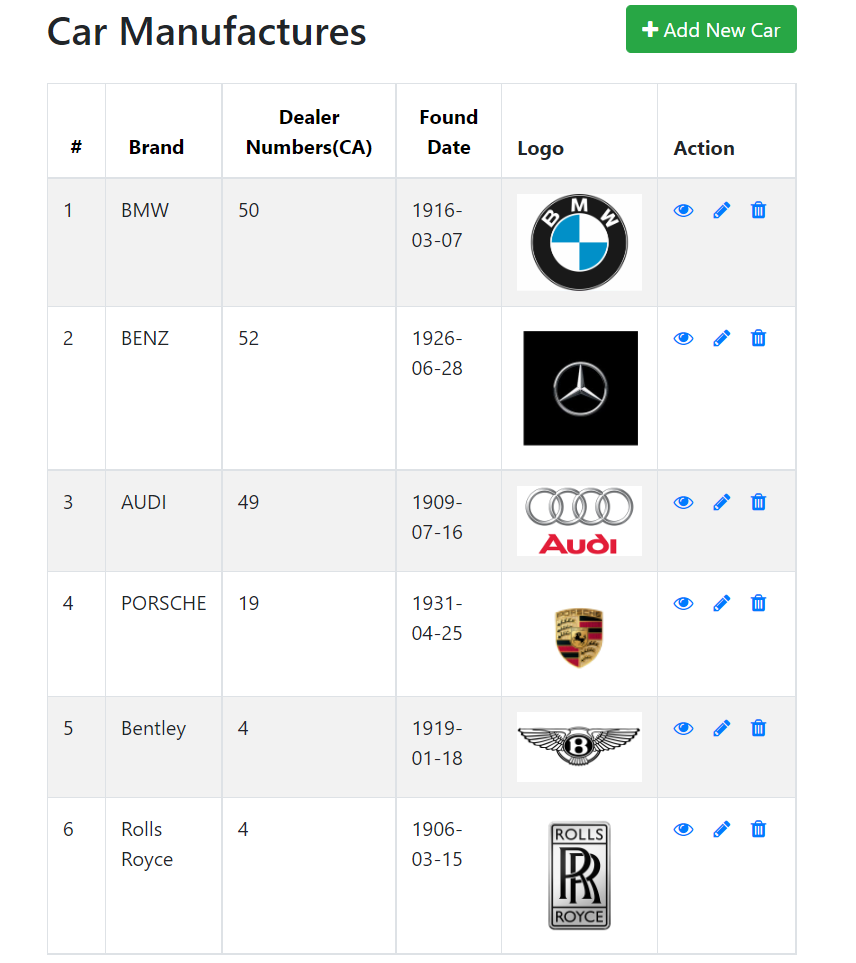
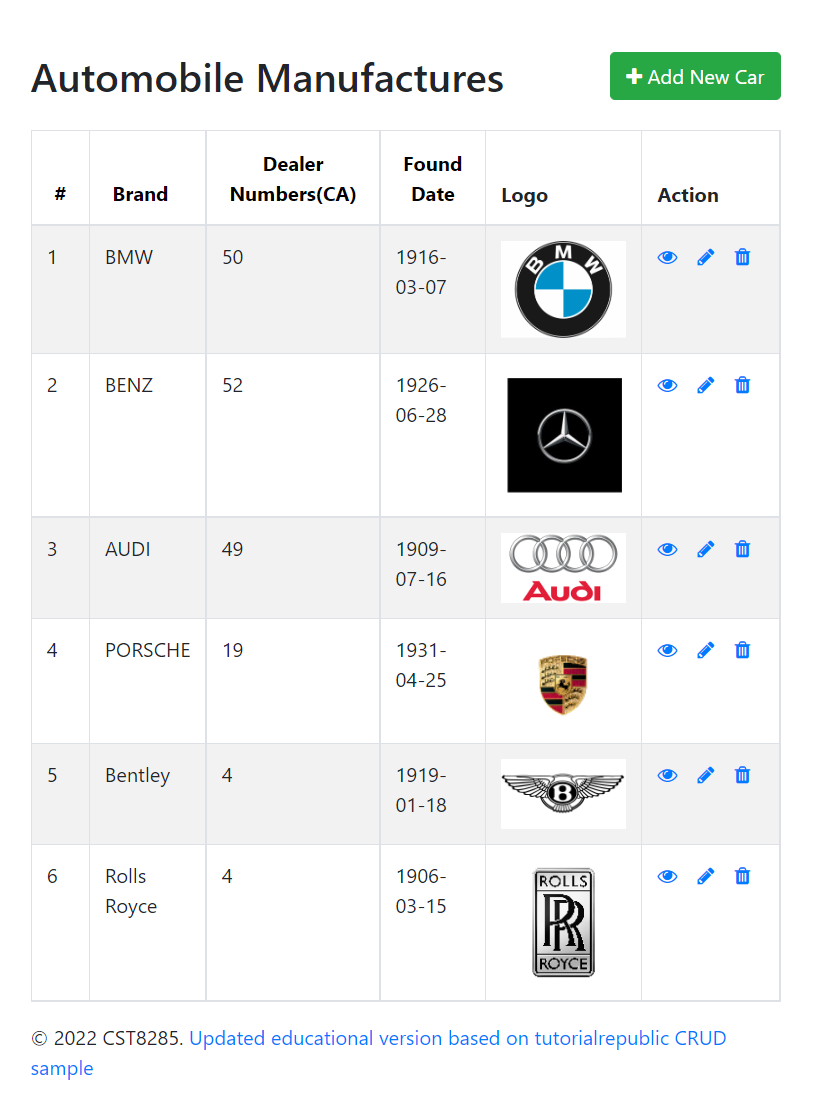
update name

diff --git a/index.php b/index.php
@@ -35,7 +35,7 @@
             <div class="car">
                 <div class="col-md-12">
                     <div class="mt-5 mb-3 clearfix">
-                        <h2 class="pull-left">Car Brands Details</h2>
+                        <h2 class="pull-left">Automobile Manufactures</h2>
                         <a href="create.php" class="btn btn-success pull-right"><i class="fa fa-plus"></i> Add New Car</a>
                     </div>
                     <?php
